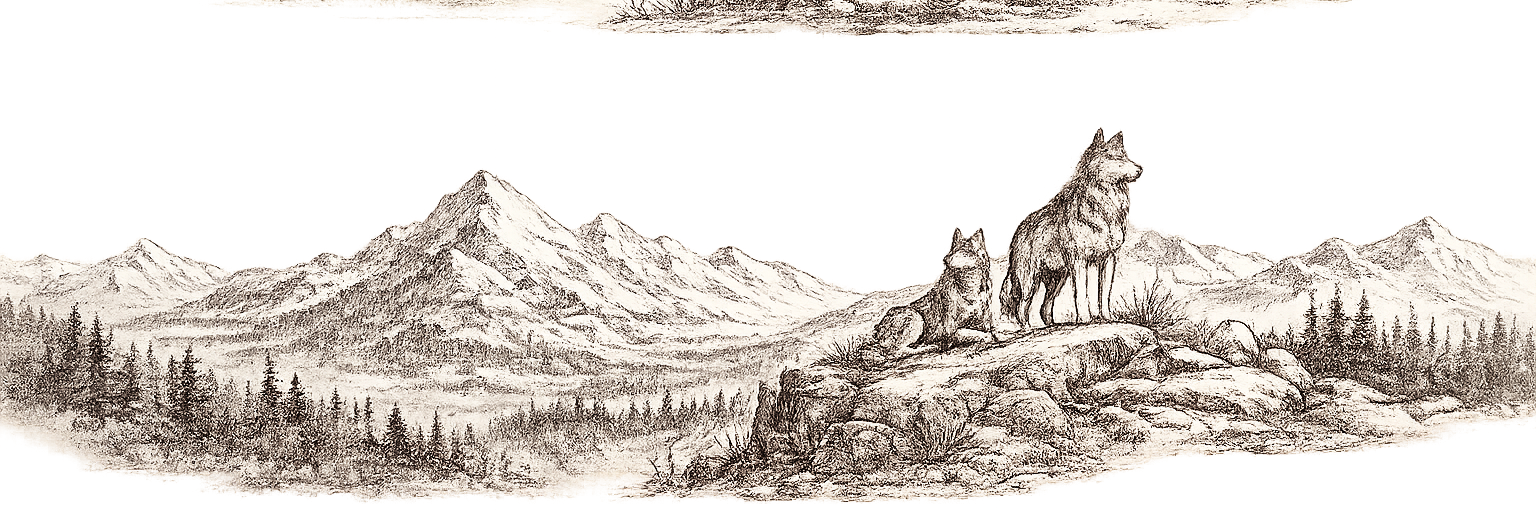
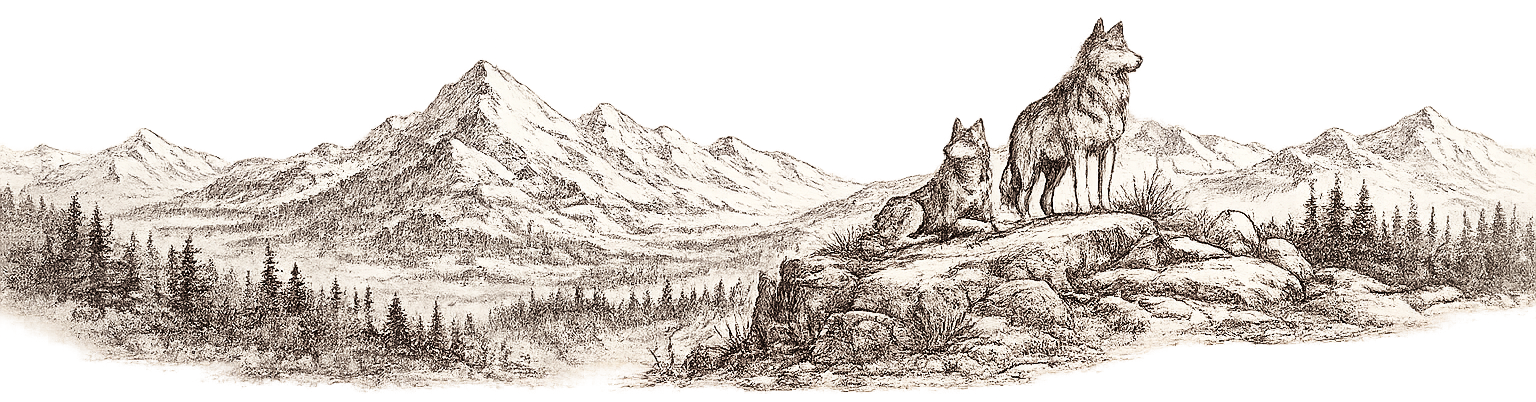
Rework hero: title above, illustration pinned to viewport bottom
- Fix a stray disconnected sliver in the panorama asset (leftover debris
  from the source generation, now cropped out).
- Reorder hero: title/tagline/CTA at top, illustration anchored to the
  bottom edge of the screen (the pack "walking" along the foot of the
  page) instead of stacked above the text.
- Fix the title rendering clipped behind the fixed navbar (missing
  navbar-height offset).
- Remove the gold medal-shaped logo icon next to the title, and the
  now-unused home.logoAlt locale key.

diff --git a/front/src/views/Home.vue b/front/src/views/Home.vue
@@ -8,17 +8,16 @@ const { t } = useI18n();
   <div id="page-top" class="carnet">
     <!-- Intro -->
     <header class="intro">
+      <div class="intro-text-block">
+        <h1 class="brand-heading">{{ t('home.title') }}</h1>
+        <p class="intro-text">{{ t('home.tagline') }}</p>
+        <router-link to="/gouvernance?tab=presentation" class="intro-cta intro-cta--dao">{{ t('home.daoTeaser') }} &rarr;</router-link>
+      </div>
       <img
         src="/img/illustrations/hero-wolf-pack-panorama.png"
         alt="Une meute de loups veillant sur un panorama de montagnes enneigées et de forêts"
         class="intro-illustration"
       />
-      <h1 class="brand-heading">
-        {{ t('home.title') }}
-        <img src="/img/logo.png" :alt="t('home.logoAlt')" class="brand-heading-logo" />
-      </h1>
-      <p class="intro-text">{{ t('home.tagline') }}</p>
-      <router-link to="/gouvernance?tab=presentation" class="intro-cta intro-cta--dao">{{ t('home.daoTeaser') }} &rarr;</router-link>
     </header>
   </div>
 </template>
@@ -36,6 +35,9 @@ const { t } = useI18n();
   // — without this, the black body bled through below the footer on
   // anything taller than a short viewport.
   min-height: 100vh;
+  // NavBar is `navbar-fixed-top` — content needs this offset or it renders
+  // underneath it (observed: the title clipped behind the nav bar).
+  padding-top: var(--navbar-height, 80px);
   background: $color-page-bg;
   color: $color-text;
 }
@@ -45,16 +47,22 @@ const { t } = useI18n();
   // Bootstrap `.col-md-8.col-md-offset-2` column (leftover from the old
   // template — left the rest of a wide viewport as dead whitespace, and
   // the hero read as a small floating block instead of "a grand hommage"
-  // (Cyril's words) filling the screen.
+  // (Cyril's words) filling the screen. The illustration is pinned to the
+  // bottom edge (the pack "walking" along the foot of the screen) with the
+  // title block above it — the rest of the page (footer) stays reachable
+  // by scrolling further down.
   display: flex;
   flex-direction: column;
-  align-items: center;
-  justify-content: center;
+  justify-content: space-between;
   min-height: calc(100vh - var(--navbar-height, 80px));
-  padding: $space-5 $space-4;
+  padding-top: $space-5;
   text-align: center;
   color: $color-text;
   background: $color-page-bg;
+}
+
+.intro-text-block {
+  padding: 0 $space-4;
 }
 
 .intro .brand-heading {
@@ -63,14 +71,6 @@ const { t } = useI18n();
   font-weight: 700;
   color: $color-black;
   margin: 0 0 $space-3;
-  display: inline-flex;
-  align-items: center;
-  gap: $space-3;
-}
-
-.brand-heading-logo {
-  height: 1.1em;
-  width: auto;
 }
 
 .intro .intro-text {
@@ -107,10 +107,12 @@ const { t } = useI18n();
 
 .intro-illustration {
   display: block;
-  max-width: 1600px;
-  width: min(85vw, 1600px);
+  width: 100%;
+  max-width: none;
   height: auto;
-  margin: 0 auto $space-4;
+  max-height: 55vh;
+  object-fit: cover;
+  object-position: bottom;
   opacity: 0.92;
   filter: sepia(35%) saturate(70%) contrast(95%);
 }

diff --git a/front/src/locales/fr.ts b/front/src/locales/fr.ts
@@ -21,7 +21,6 @@ export default {
   },
   home: {
     title: "La Meute 3.0",
-    logoAlt: "Le logo de la Meute 2.0",
     tagline: "16 ans de jeu en équipe. Des amis, des rires, du frag !",
     daoTeaser: "Depuis 2026, nos décisions se votent on-chain",
   },

diff --git a/front/src/locales/en.ts b/front/src/locales/en.ts
@@ -19,7 +19,6 @@ const en: typeof fr = {
   },
   home: {
     title: "La Meute 3.0",
-    logoAlt: "The Meute 2.0 logo",
     tagline: "16 years of team gaming. Friends, laughs, and frags!",
     daoTeaser: "Since 2026, our decisions are voted on-chain",
   },
